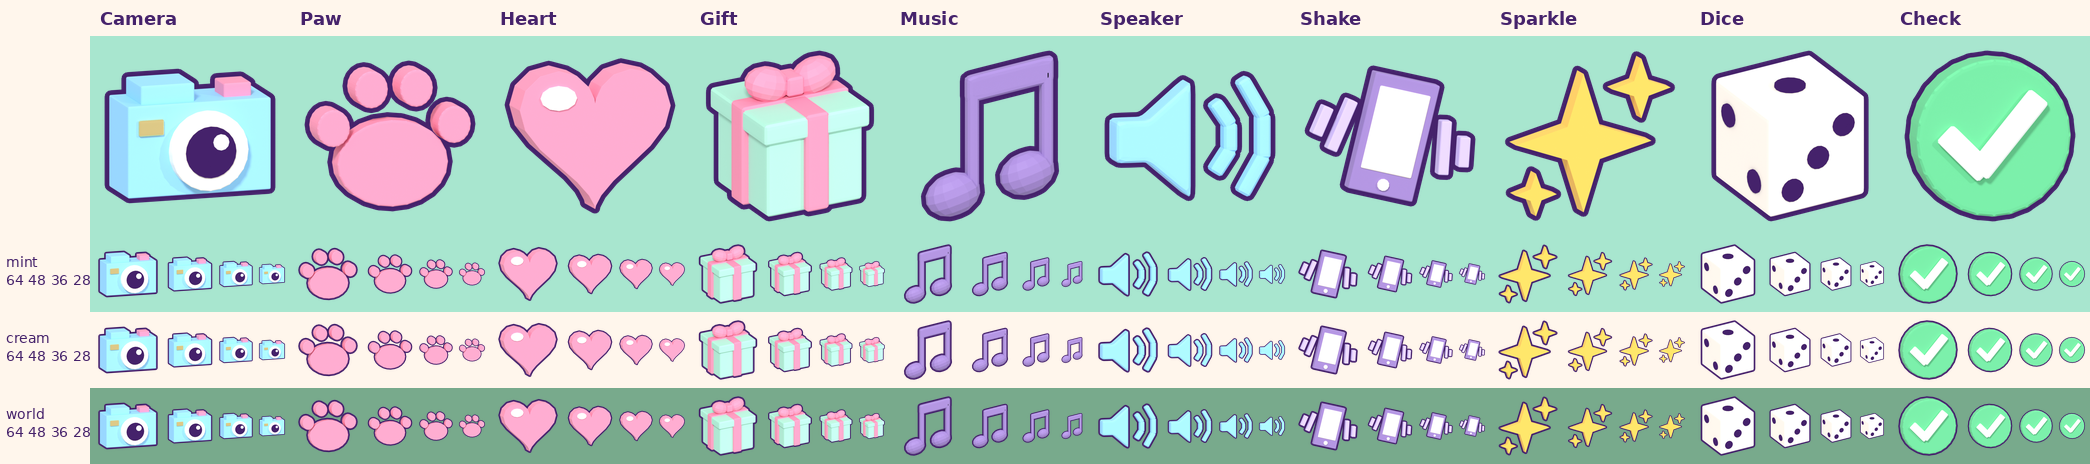
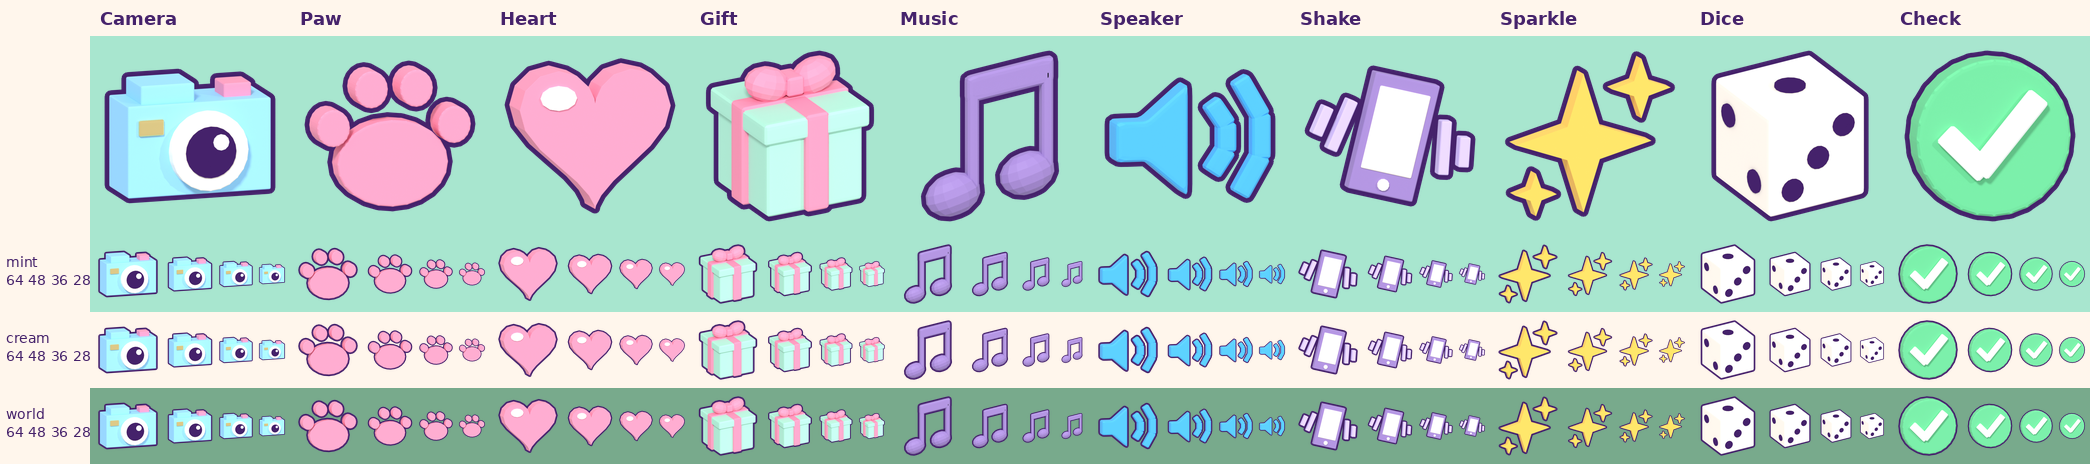
Speaker picture: deeper blue and thicker waves
Review-QA on #253: the pale sky fill and thin waves faded on mint and on
the world green at 36 px, and it shared a colour with the camera.

Claude-Session: https://claude.ai/code/session_01DW2up3E6M21fYJtCcCtEdr

diff --git a/assets/clean-a-cat/blender/hud_icons.py b/assets/clean-a-cat/blender/hud_icons.py
@@ -281,14 +281,15 @@ def music(mat):
 
 
 def speaker(mat):
-    """Sound effects: a sky blue speaker and two sound waves, each wave three straight pieces."""
+    """Sound effects: a speaker and two sound waves, each wave three straight pieces. In the bath water's blue: the
+    pale sky blue of the camera faded on mint and on the world's green at 36 px, and so did thinner waves (#253)."""
     b = Builder()
     b.prism((-0.75, 0, 0), [(-0.9, -0.36), (-0.35, -0.36), (0.4, -1.0), (0.4, 1.0), (-0.35, 0.36), (-0.9, 0.36)],
-            0.6, "spa_sky", bevel=True, rot=X)
-    for radius, span, long in ((0.72, 34, 0.5), (1.3, 30, 0.76)):
+            0.6, "water", bevel=True, rot=X)
+    for radius, span, long in ((0.74, 34, 0.52), (1.36, 30, 0.8)):
         for a in (-span, 0, span):
             t = math.radians(a)
-            b.box((-0.35 + radius * math.cos(t), 0, radius * math.sin(t)), (0.24, 0.34, long), "spa_sky",
+            b.box((-0.35 + radius * math.cos(t), 0, radius * math.sin(t)), (0.34, 0.34, long), "water",
                   rot=(-t, "Y"))
     return _fin(b, "Speaker", mat)
 

diff --git a/docs/art/style-guide.md b/docs/art/style-guide.md
@@ -260,7 +260,7 @@ Six pictures for the HUD's buttons, drawn apart from the game models because a b
 - One bold object per picture that can be named at 48 px, built fat with rounded edges, tilted a little and filling the square about as much as the gear does. No small parts.
 - `Coins` is not rendered. The owner chose his library's own coin picture (`CatCafe_Icon_Coins.png`: a gold stack with a $) over the paw coin first drafted here, whose paw was done badly, then asked for it to be re-outlined to match the set. `hud_coin.py <library coin png> <out png>` (plain Python with Pillow and numpy) does only that: the library's brown 10 px outline becomes the `#45226B` ink at 13 px and the coin inside it is not touched. The generator has no coin, so a rebuild cannot bring the paw coin back.
 - `Settings`: a gear with eight teeth in soft blue grey. `Index`: a purple book with a cream cat's face on the cover and a pink bookmark. `Tools`: a pink toolbox with a deeper pink lid open and a tall cream carry handle on it, a sky blue scrub brush standing in it with its white bristles to the front, a mint soap bottle with a pump beside it, a gold latch and a white paw on the front. Shut, it could pass for a lunchbox at 48 px (Review-QA, #234), so #242 opened it; a phone draws the button at about 36 pt, where a brush lying inside the box blurred into it, so #247 stood the brush up to break the outline and made the carry handle tall enough to show above the open lid (without the handle it stops being a toolbox). The rules this gave: check HUD pictures at 36 px, let the thing that names the button break the silhouette, and never trade away the one cue that names the object. The first draft was the game's scrub brush with soap bubbles; the owner on 2026-11-24: the bubbles "makes no sense" and "a toolbox would be better". `Helper`: a member of the human staff, head and shoulders in the spa uniform (see `staff.py` below). The first draft was a helper kitten's head; the owner on 2026-11-24 leaned to human staff for helpers and the kitten staying as the mascot. `Build`: a blue hammer with a wooden handle and a white paw.
-- Ten small pictures in the same style (#251), for the names `Icons.luau` otherwise draws as a system emoji, which looks different on every phone: `Camera` (sky blue, a cream lens ring), `Paw` (deep pink, a wide pad and four toes), `Heart` (deep pink), `Gift` (a mint box, pink ribbon and bow), `Music` (two joined purple notes), `Speaker` (sky blue with two waves), `Shake` (a purple phone leaning over with motion marks), `Sparkle` (three yellow four-point stars), `Dice` (a cream die with ink pips) and `Check` (a green badge with a white tick). They are used smaller than the buttons, in rows and badges, so each is one plain shape and is checked down to 28 px. The paw's toes stand apart from the pad on purpose: toes that touch it make one blob with round ears.
+- Ten small pictures in the same style (#251), for the names `Icons.luau` otherwise draws as a system emoji, which looks different on every phone: `Camera` (sky blue, a cream lens ring), `Paw` (deep pink, a wide pad and four toes), `Heart` (deep pink), `Gift` (a mint box, pink ribbon and bow), `Music` (two joined purple notes), `Speaker` (the bath water's blue with two thick waves; pale sky blue faded on mint and on the world's green at 36 px), `Shake` (a purple phone leaning over with motion marks), `Sparkle` (three yellow four-point stars), `Dice` (a cream die with ink pips) and `Check` (a green badge with a white tick). They are used smaller than the buttons, in rows and badges, so each is one plain shape and is checked down to 28 px. The paw's toes stand apart from the pad on purpose: toes that touch it make one blob with round ears.
 - The human staff are a draft for pictures only, in `staff.py`: no game model yet. One uniform says "works here" beside customers, who are the same blocky people in hats, scarves or berets (one in a mint tee): a mint smock (`spa_mint`) with short sleeves and cream cuffs, a cream collar with two points, a cream name badge with a pink paw, and never a hat. Two looks so far: Jo (`skin_light`, a ginger bob with a swept fringe and a bun) and Sam (`skin_deep`, short black curls). `ui_renders.py` renders `portrait_Staff_<Name>.png` on the stand-in figure, both at one scale with the shoulders running off the sides so the head is big in a round frame. The `Helper` button is a chunky head of the first look in the same colours, so button and portraits match. If staff become game models, their `HumanoidDescription` colours come from this table.
 - Nothing is uploaded by this script. The ui-designer keeps the six in `assets/clean-a-cat/ui/` and uploads are group owned.
 
